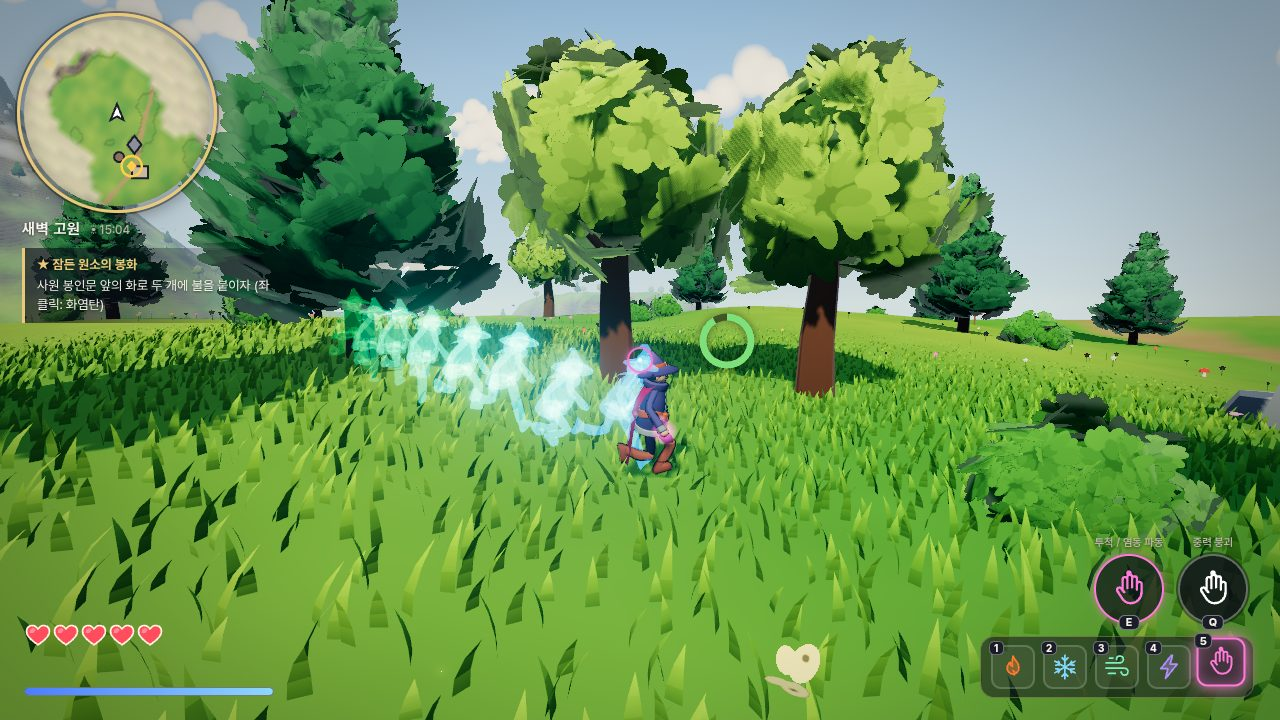
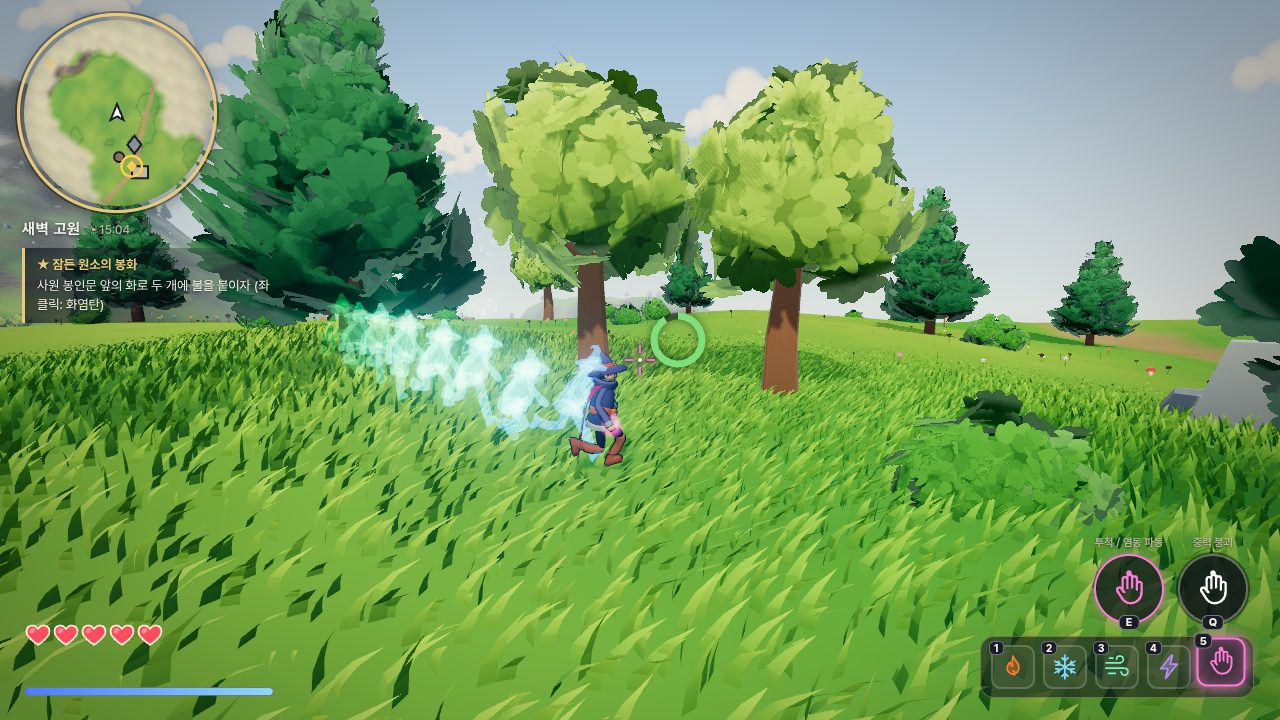
README screenshots for shoulder camera, fireball and wind blast
Claude-Session: https://claude.ai/code/session_01B6jUiejhCWC1s8ZVMRBAuj

diff --git a/README.md b/README.md
@@ -11,6 +11,8 @@
 | ![호수](docs/frost.jpg) | ![활공](docs/glide.jpg) |
 | **빙결 질주 — 걸음마다 눈꽃** | **염동 질주 — 산데비스탄** |
 | ![빙결 질주](docs/surge_ice.jpg) | ![염동 질주](docs/sandevistan.jpg) |
+| **3단계 화염 폭발구** | **폭풍 파동** |
+| ![화염 폭발](docs/fireball.jpg) | ![폭풍 파동](docs/windblast.jpg) |
 
 ## 실행 방법
 
